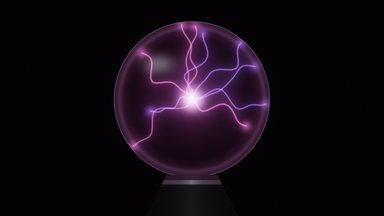
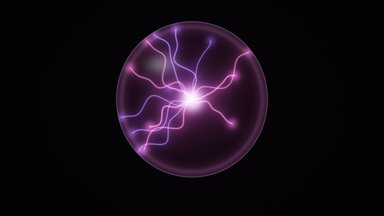
Plasma Globe is called Plasma (its id stays plasmaglobe) and gains a Shape: Full screen, the tendrils reaching from the middle out across the whole screen and on past its edges (no glass, the gas's haze fading outwards), or Globe, as it was. Up to 20 tendrils (was 14). The stand is gone, from the pi

Changed region(s): [[0.2812, 0.0833, 0.7188, 0.7778], [0.4062, 0.8056, 0.5938, 0.8611], [0.5938, 0.75, 0.625, 0.7778]]

diff --git a/apps/desktop/renderer/app/viz/plasma.js b/apps/desktop/renderer/app/viz/plasma.js
@@ -1,21 +1,25 @@
 'use strict';
 
-// Plasma Globe: a glass sphere on a black stand, crackling tendrils of
-// plasma reaching from the glowing electrode in its middle out to the glass.
+// Plasma: crackling tendrils of plasma reaching from a glowing electrode out
+// to the glass of a globe round it, or out across the whole screen.
 // More of them the louder the music, wriggling with the mids, flickering
 // with the highs, all brighter on the beat; the big kicks are a fingertip on
 // the glass, the tendrils gathering to it in a bright bundle and wandering
 // off again.
 //
-// Its cogwheel: the colours, how many tendrils at most, the stand.
+// Its cogwheel: the shape (the whole screen or a globe), the colours, how
+// many tendrils at most.
 //
 // WebGL (viz/gl.js): one pass over the screen; each tendril a wavering line
 // from the middle to a point on the glass (the points wander over the
-// sphere, those behind dimmer), its distance from each pixel worked out
-// along twenty pieces; then the glass's shine and the stand.
+// sphere, those behind dimmer; on the whole screen the line runs on past
+// its edge the same way), its distance from each pixel worked out along
+// forty pieces (the points in a small float texture, a row a tendril);
+// then the glass's shine.
 
 (() => {
-  const MAX = 14;
+  const MAX = 20;
+  const PTS = 21;   // a tendril's 41 points, two to a texel
   const PALETTES = {
     plasma: [[1.0, 0.35, 0.85], [0.55, 0.3, 1.0]],
     blue: [[0.35, 0.7, 1.0], [0.2, 0.35, 1.0]],
@@ -26,10 +30,11 @@
   const FS = VizGL.NOISE + `
     in vec2 uv;
     uniform vec2 res;
-    uniform float time, glow, wiggle, flicker, touch, stand;
-    uniform vec4 tips[${MAX}];      // x, y (on the globe, -1..1), depth (-1 behind .. 1 in front), strength
+    uniform float time, glow, wiggle, flicker, touch;
+    uniform bool full;              // the whole screen, no globe
+    uniform vec4 tips[${MAX}];      // x, y (on the globe, -1..1; past the screen's edge when full), depth (-1 behind .. 1 in front), strength
     uniform vec3 cols[${MAX}];
-    uniform vec4 pts[${MAX * 11}];  // each tendril's 21 points, two to a vec4
+    uniform sampler2D pts;          // row i: tendril i's 41 points, two to a texel
     uniform vec3 inner;
     uniform int count;
     out vec4 o;
@@ -40,7 +45,7 @@
     }
 
     void main() {
-      vec2 p = (uv - vec2(0.5, 0.54)) * vec2(res.x / res.y, 1.0);
+      vec2 p = (uv - vec2(0.5, full ? 0.5 : 0.54)) * vec2(res.x / res.y, 1.0);
       const float R = 0.36;
       vec2 q = p / R;
       float r = length(q);
@@ -48,21 +53,24 @@
       vec3 col = vec3(0.01, 0.008, 0.015) * (1.0 - 0.5 * length(uv - 0.5));
       // The room lit faintly by the globe.
       col += inner * 0.05 * glow * exp(-r * 1.2);
-      if (r < 1.02) {
-        // Inside the glass: a dim haze of the gas.
-        float inside = smoothstep(1.0 + px, 1.0 - px, r);
-        vec3 gas = inner * (0.05 + 0.08 * glow) * (1.0 - r * 0.6) * (0.8 + 0.4 * fbm(q * 3.0 + time * 0.3));
+      if (full || r < 1.02) {
+        // Inside the glass (everywhere, without one): a dim haze of the gas.
+        float inside = full ? 1.0 : smoothstep(1.0 + px, 1.0 - px, r);
+        float haze = full ? exp(-r * 0.7) : 1.0 - r * 0.6;
+        vec3 gas = inner * (0.05 + 0.08 * glow) * haze * (0.8 + 0.4 * fbm(q * 3.0 + time * 0.3));
         vec3 light = vec3(0.0);
         for (int i = 0; i < ${MAX}; i++) {
           if (i >= count) break;
           vec4 tip = tips[i];
           if (tip.w <= 0.0) continue;
           vec2 e = tip.xy;
+          // Too far from its line for any of its light: skip it.
+          if (segDist(q, vec2(0.0), e) > 0.27 * length(e) + 0.4) continue;
           float seed = float(i) * 7.31;
           float d = 1e3;
-          for (int k = 0; k < 10; k++) {
-            vec4 ab = pts[i * 11 + k];
-            vec2 c = pts[i * 11 + k + 1].xy;
+          for (int k = 0; k < ${PTS - 1}; k++) {
+            vec4 ab = texelFetch(pts, ivec2(k, i), 0);
+            vec2 c = texelFetch(pts, ivec2(k + 1, i), 0).xy;
             d = min(d, min(segDist(q, ab.xy, ab.zw), segDist(q, ab.zw, c)));
           }
           float bright = tip.w * (0.55 + 0.45 * (tip.z * 0.5 + 0.5));
@@ -70,33 +78,20 @@
           light += cols[i] * (exp(-d * d / (px * px * 12.0)) * 1.5 + exp(-d * 14.0) * 0.4) * bright * fl;
           light += vec3(1.0) * exp(-d * d / (px * px * 1.5)) * 0.6 * bright * fl;
           // Where it meets the glass: a bright spot.
-          light += cols[i] * exp(-pow(length(q - e) / 0.06, 2.0)) * bright * 0.8;
+          if (!full) light += cols[i] * exp(-pow(length(q - e) / 0.06, 2.0)) * bright * 0.8;
         }
         // The electrode: a hot ball in the middle.
         float core = exp(-pow(r / 0.12, 2.0));
         light += mix(inner, vec3(1.0), 0.6) * core * (1.2 + glow) + inner * exp(-r * 6.0) * 0.6 * glow;
         col = mix(col, col * 0.5 + gas + light, inside);
-        // The glass: darker and tinted at its rim, a window's glint, a soft ring.
-        float rim = smoothstep(0.75, 1.0, r) * inside;
-        col += inner * rim * 0.12 * (0.5 + glow);
-        vec2 g = q - vec2(-0.42, 0.45);
-        float glint = exp(-pow(length(g * vec2(1.0, 1.6)) / 0.18, 2.0)) * 0.35 + exp(-pow((r - 0.93) / 0.03, 2.0)) * 0.08;
-        col += vec3(0.9, 0.92, 1.0) * glint * inside;
-        col += vec3(0.6, 0.65, 0.8) * exp(-pow((r - 1.0) / (px * 2.0), 2.0)) * 0.35;
-      }
-      // The stand: a black cone with a chrome band, under the globe.
-      if (stand > 0.5) {
-        vec2 s = q - vec2(0.0, -1.0);
-        float top = 0.34, bottom = 0.62, h = 0.55;
-        float y = -s.y / h;
-        float half_ = mix(top, bottom, clamp(y, 0.0, 1.0));
-        if (y > -0.05 && y < 1.0 && abs(s.x) < half_ && r > 0.97) {
-          float shade = 0.03 + 0.05 * pow(1.0 - abs(s.x) / half_, 2.0) + inner.x * 0.0;
-          vec3 base = vec3(shade);
-          float band = smoothstep(0.02, 0.0, abs(y - 0.12) - 0.04);
-          base = mix(base, vec3(0.3, 0.31, 0.33) * (0.5 + 0.8 * pow(1.0 - abs(s.x) / half_, 3.0)), band);
-          base += inner * 0.15 * glow * smoothstep(0.3, 0.0, y);
-          col = base;
+        if (!full) {
+          // The glass: darker and tinted at its rim, a window's glint, a soft ring.
+          float rim = smoothstep(0.75, 1.0, r) * inside;
+          col += inner * rim * 0.12 * (0.5 + glow);
+          vec2 g = q - vec2(-0.42, 0.45);
+          float glint = exp(-pow(length(g * vec2(1.0, 1.6)) / 0.18, 2.0)) * 0.35 + exp(-pow((r - 0.93) / 0.03, 2.0)) * 0.08;
+          col += vec3(0.9, 0.92, 1.0) * glint * inside;
+          col += vec3(0.6, 0.65, 0.8) * exp(-pow((r - 1.0) / (px * 2.0), 2.0)) * 0.35;
         }
       }
       col = 1.0 - exp(-col * 1.3);
@@ -120,12 +115,16 @@
     return [Math.cos(a) * r, Math.sin(a) * r, z];
   }
 
-  class PlasmaGlobe {
+  class Plasma {
     constructor(canvas) {
       const gl = VizGL.context(canvas);
       if (!gl) throw new Error('no WebGL 2');
       this.gl = gl;
       this.prog = VizGL.program(gl, VizGL.SCREEN_VS, FS);
+      this.ptsTex = gl.createTexture();
+      gl.bindTexture(gl.TEXTURE_2D, this.ptsTex);
+      gl.texImage2D(gl.TEXTURE_2D, 0, gl.RGBA32F, PTS, MAX, 0, gl.RGBA, gl.FLOAT, null);
+      for (const k of [gl.TEXTURE_MIN_FILTER, gl.TEXTURE_MAG_FILTER]) gl.texParameteri(gl.TEXTURE_2D, k, gl.NEAREST);
       this.tendrils = Array.from({ length: MAX }, (_, i) => ({ d: onSphere(), drift: onSphere(), on: 0, hue: i / MAX }));
       this.touch = 0;
       this.finger = [0, 0, 1];
@@ -165,7 +164,11 @@
 
       const tips = new Float32Array(MAX * 4);
       const cols = new Float32Array(MAX * 3);
-      const pts = new Float32Array(MAX * 11 * 4);
+      const pts = new Float32Array(MAX * PTS * 4);
+      const full = set('pgShape') === 'full';
+      // On the whole screen: how far out its edges lie (in globe radii).
+      const hx = (0.5 * this.w) / this.h / 0.36;
+      const hy = 0.5 / 0.36;
       const wiggle = a.playing ? a.mid : 0.2;
       const jitter = a.playing ? a.treble : 0.1;
       this.phase = (this.phase || 0) + dt * (a.playing ? 1 + a.level : 0.4);
@@ -181,23 +184,33 @@
         t.d = t.d.map((v) => v / len);
         t.on += ((i < want ? 1 : 0) - t.on) * Math.min(1, dt * 4);
         const strength = t.on * this.glow * (1 + this.touch * 0.8);
-        tips.set([t.d[0] * 0.97, t.d[1] * 0.97, t.d[2], strength], i * 4);
+        // Its tip: on the glass, or (on the whole screen) on out the same
+        // way to a little past the screen's edge.
+        let ex = t.d[0] * 0.97;
+        let ey = t.d[1] * 0.97;
+        if (full) {
+          const l = Math.hypot(ex, ey) || 1;
+          const dx = ex / l;
+          const dy = ey / l;
+          const reach = Math.min(hx / Math.max(Math.abs(dx), 1e-3), hy / Math.max(Math.abs(dy), 1e-3)) * 1.08;
+          ex = dx * reach;
+          ey = dy * reach;
+        }
+        tips.set([ex, ey, t.d[2], strength], i * 4);
         // Its line: from the middle to the tip, wavering (slow waves, quicker
         // ripples with the highs), still at both ends.
-        const ex = t.d[0] * 0.97;
-        const ey = t.d[1] * 0.97;
         const span = Math.hypot(ex, ey) || 1;
         const nx = -ey / span;
         const ny = ex / span;
         const amp = (0.1 + 0.16 * wiggle) * span;
         const ph = this.phase;
-        for (let k = 0; k <= 20; k += 1) {
-          const f = k / 20;
+        for (let k = 0; k <= (PTS - 1) * 2; k += 1) {
+          const f = k / ((PTS - 1) * 2);
           const wob = Math.sin(f * 5 + ph * 3.1 + i * 1.7) * 0.6 + Math.sin(f * 10.5 - ph * 4.7 + i * 2.9) * 0.3
             + Math.sin(f * 16 + ph * 11 + i * 5.3) * 0.1 * (0.4 + jitter);
           const off = wob * amp * Math.sin(Math.PI * f);
-          pts[(i * 11) * 4 + k * 2] = ex * f + nx * off;
-          pts[(i * 11) * 4 + k * 2 + 1] = ey * f + ny * off;
+          pts[(i * PTS) * 4 + k * 2] = ex * f + nx * off;
+          pts[(i * PTS) * 4 + k * 2 + 1] = ey * f + ny * off;
         }
         const c = pal ? pal[i % 2] : hsv((t.hue + this.age * 0.03) % 1, 0.7, 1);
         cols.set(c, i * 3);
@@ -214,10 +227,12 @@
       gl.uniform1f(u.wiggle, a.playing ? a.mid : 0.2);
       gl.uniform1f(u.flicker, a.playing ? 0.3 + a.treble : 0.2);
       gl.uniform1f(u.touch, this.touch);
-      gl.uniform1f(u.stand, set('pgStand') ? 1 : 0);
+      gl.uniform1i(u.full, full ? 1 : 0);
       gl.uniform4fv(u.tips, tips);
       gl.uniform3fv(u.cols, cols);
-      gl.uniform4fv(u.pts, pts);
+      gl.bindTexture(gl.TEXTURE_2D, this.ptsTex);
+      gl.texSubImage2D(gl.TEXTURE_2D, 0, 0, 0, PTS, MAX, gl.RGBA, gl.FLOAT, pts);
+      VizGL.bind(gl, u.pts, this.ptsTex, 0);
       gl.uniform3f(u.inner, inner[0], inner[1], inner[2]);
       gl.uniform1i(u.count, MAX);
       VizGL.screen(gl);
@@ -226,16 +241,16 @@
 
   Visualizer.add({
     id: 'plasmaglobe',
-    name: 'Plasma Globe',
-    desc: 'A plasma globe crackling with the music, its tendrils reaching for the glass and gathering to a fingertip on the big kicks',
+    name: 'Plasma',
+    desc: 'Plasma crackling with the music, its tendrils reaching out across the screen or for the glass of a globe, gathering to a fingertip on the big kicks',
     glyph: '<svg class="icon" viewBox="0 0 24 24" aria-hidden="true" fill="none" stroke="currentColor" stroke-width="2" '
-      + 'stroke-linecap="round" stroke-linejoin="round"><circle cx="12" cy="10" r="8"/><path d="M12 10l-4-5M12 10l5-3M12 10l-1 6M12 10l6 3"/><path d="M8 21h8l-1-3H9z"/></svg>',
+      + 'stroke-linecap="round" stroke-linejoin="round"><circle cx="12" cy="12" r="9"/><path d="M12 12l-4-6M12 12l6-3M12 12l-1 7M12 12l7 3"/></svg>',
     gl: true,
-    create: (canvas) => new PlasmaGlobe(canvas),
+    create: (canvas) => new Plasma(canvas),
     options: [
+      { type: 'choice', key: 'pgShape', label: 'Shape', choices: [['full', 'Full screen'], ['globe', 'Globe']] },
       { type: 'choice', key: 'pgColors', label: 'Colours', choices: [['plasma', 'Plasma'], ['blue', 'Blue'], ['green', 'Green'], ['rainbow', 'Rainbow']] },
       { type: 'slider', key: 'pgCount', label: 'Tendrils', min: 4, max: MAX, step: 1, unit: '' },
-      { type: 'check', key: 'pgStand', label: 'Stand' },
     ],
   });
 })();

diff --git a/packages/core/src/client/settings.js b/packages/core/src/client/settings.js
@@ -205,10 +205,11 @@ const VIZ_OPTIONS = {
   shPieces: ['range', 10, 4, 20, 1],
   shForce: ['range', 100, 25, 200, 5],
   shWhen: ['choice', 'hits', ['hits', 'bar']],
-  // Plasma Globe: the colours, how many tendrils at most, the stand.
+  // Plasma: the shape (the whole screen or a globe), the colours, how many
+  // tendrils at most.
+  pgShape: ['choice', 'globe', ['full', 'globe']],
   pgColors: ['choice', 'plasma', ['plasma', 'blue', 'green', 'rainbow']],
-  pgCount: ['range', 10, 4, 14, 1],
-  pgStand: ['bool', true],
+  pgCount: ['range', 10, 4, 20, 1],
   // Attractor: which one (Clifford, De Jong, Lorenz), the colours, how fast
   // it turns (percent).
   atKind: ['choice', 'clifford', ['clifford', 'dejong', 'lorenz']],
